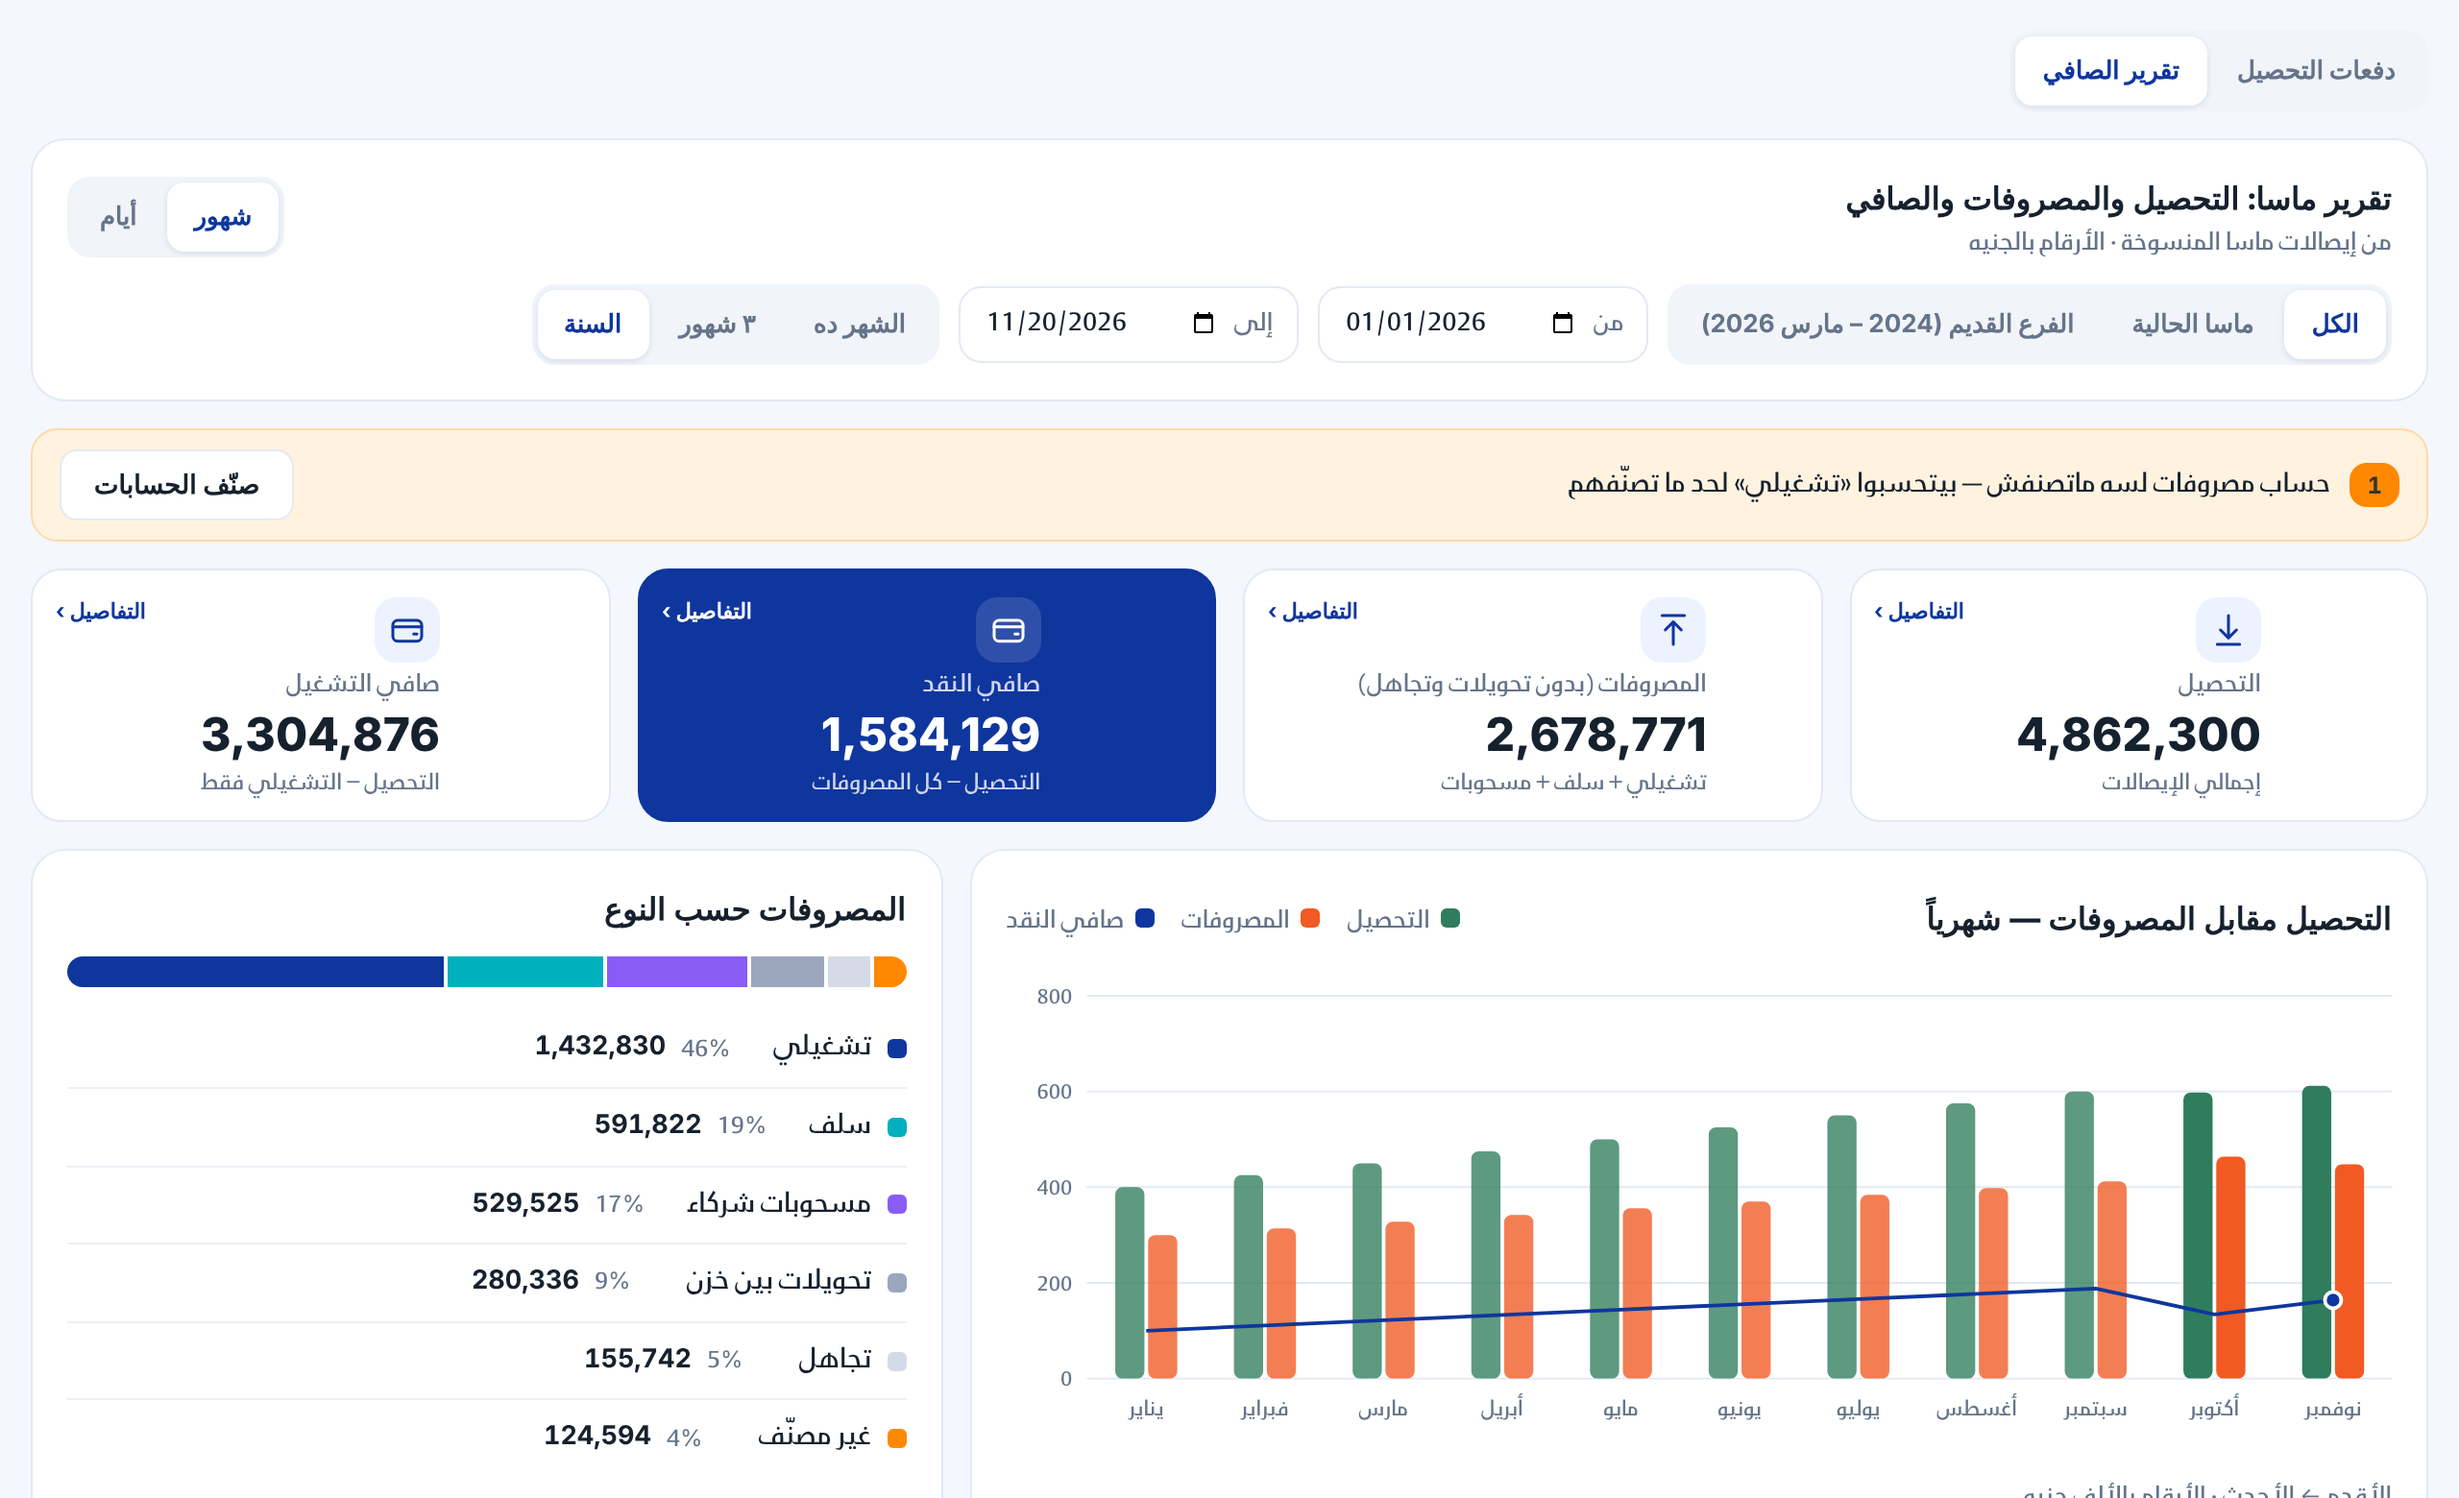
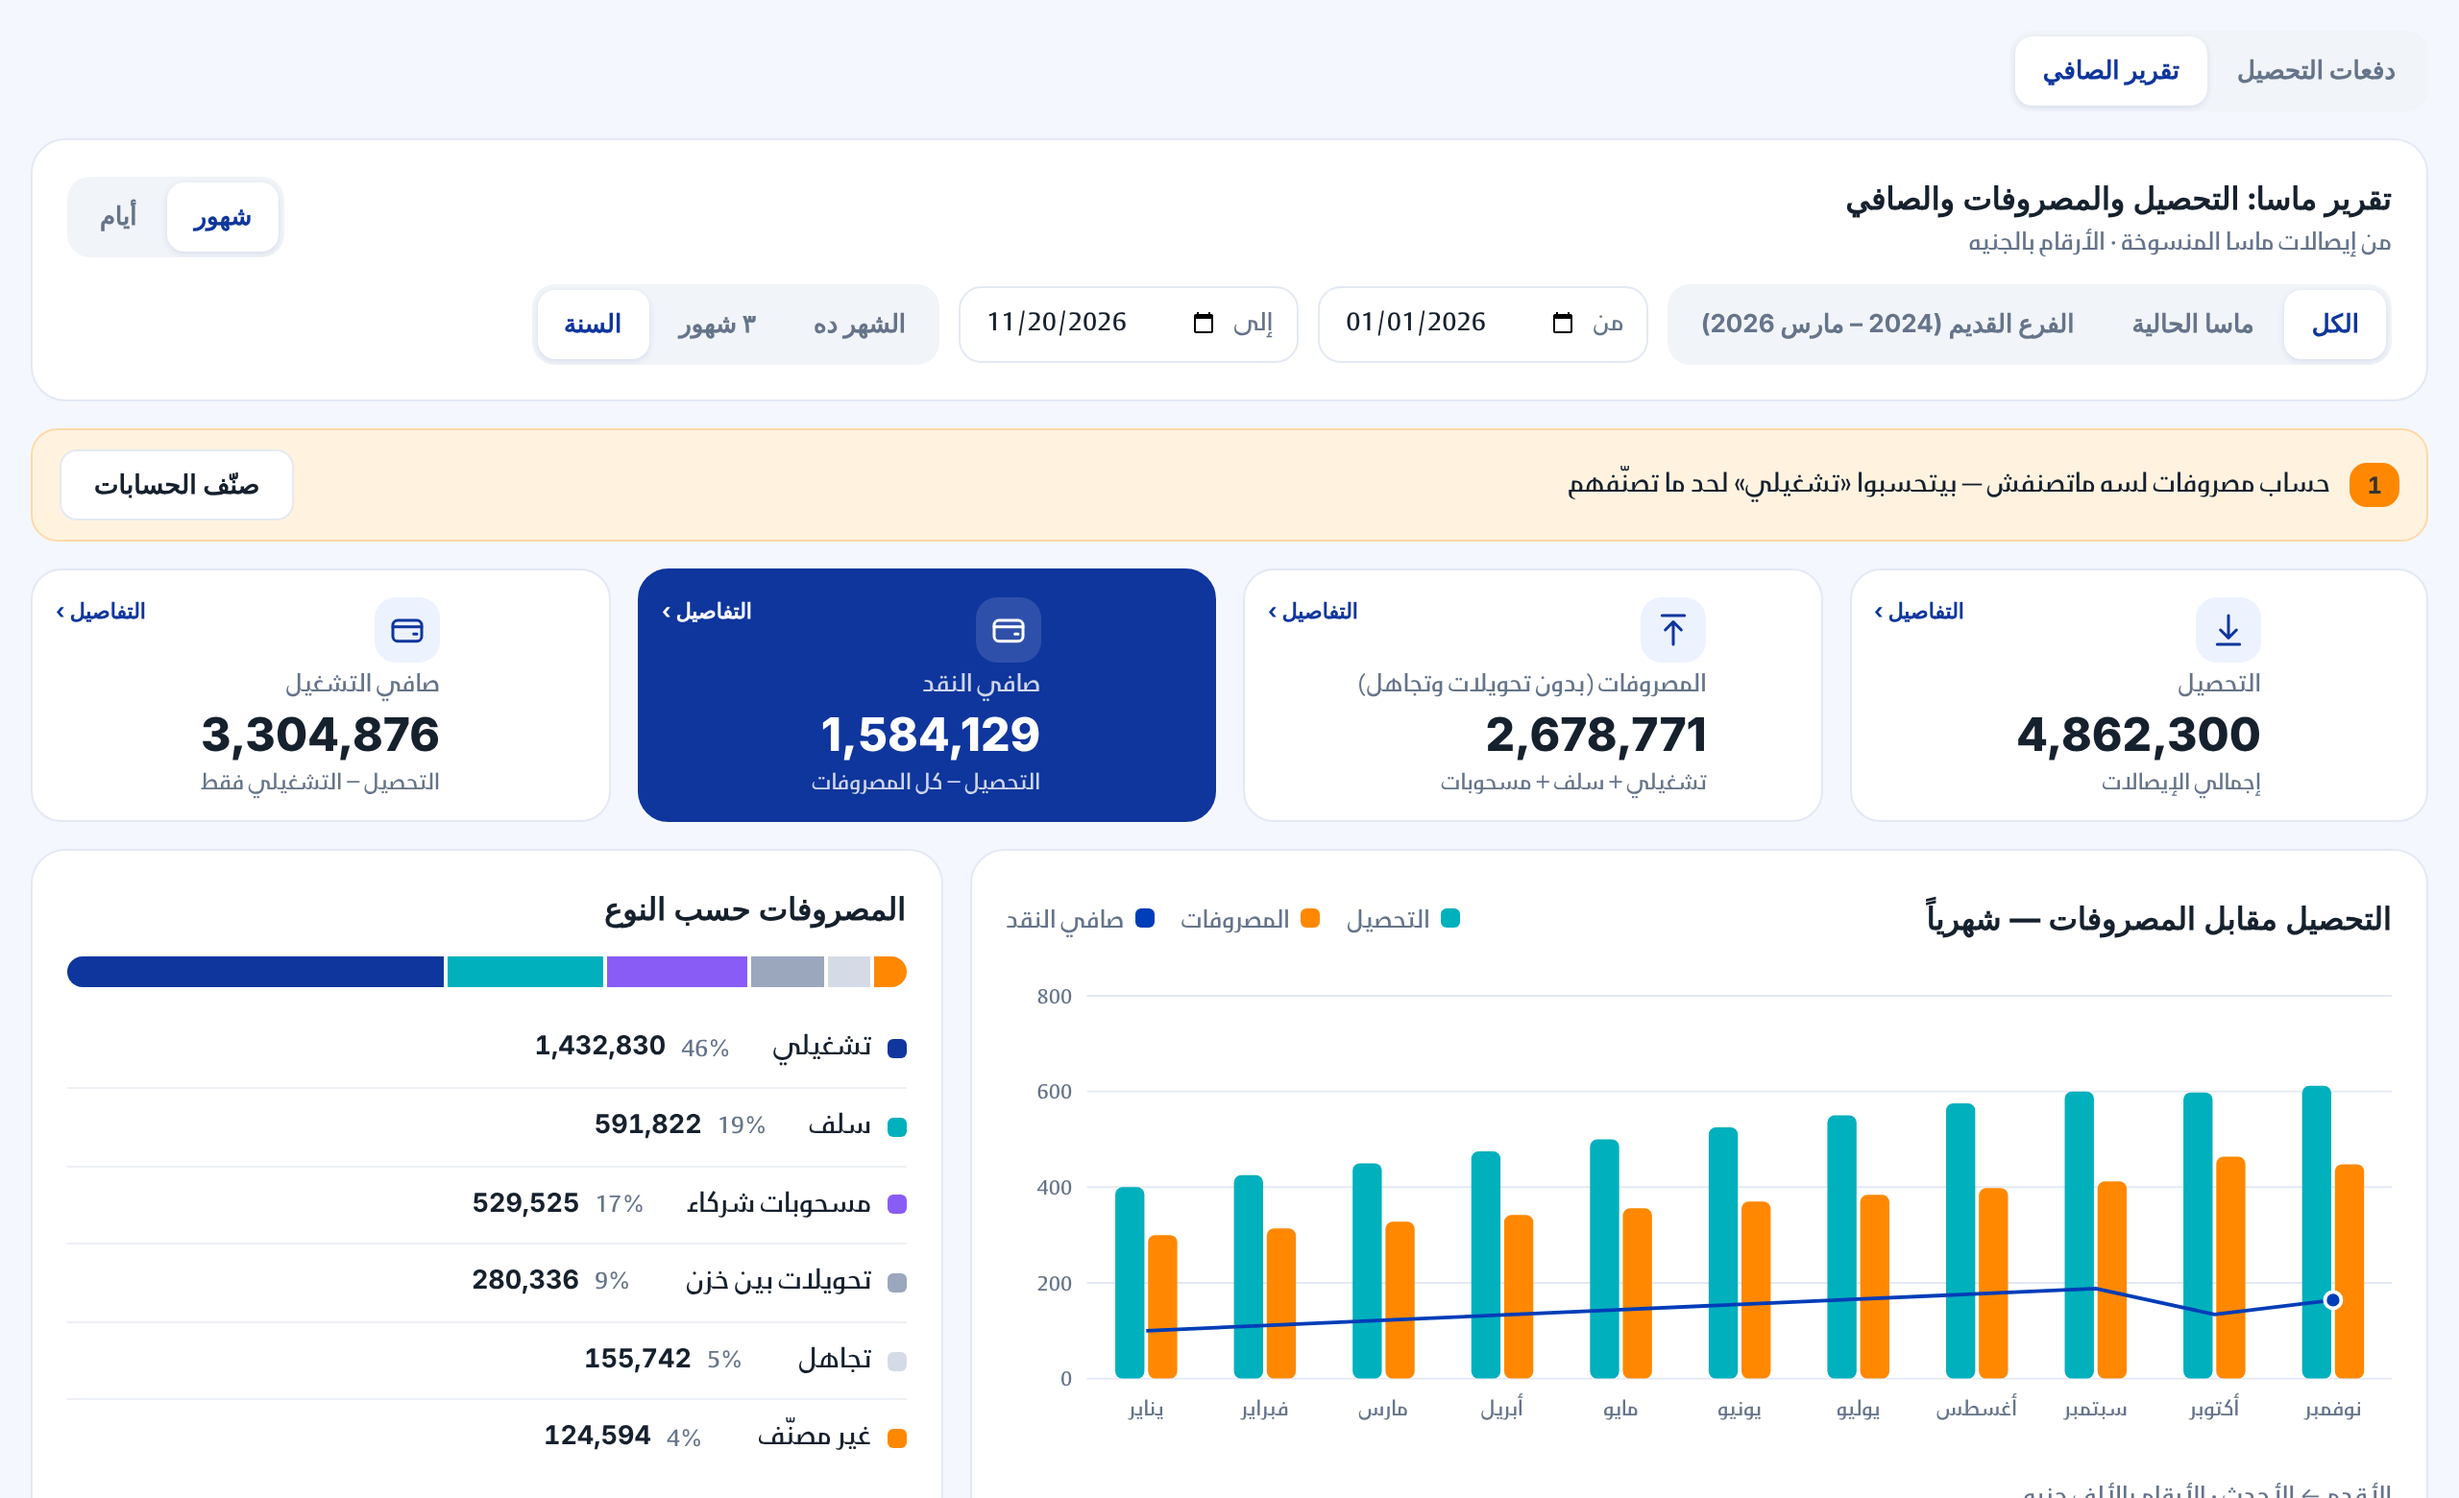
masa net chart: bars at full opacity so owner colours show exactly; refreshed screenshot
Claude-Session: https://claude.ai/code/session_01UqVZHaB84bosb26ToEYYkt

Changed region(s): [[0.4375, 0.7077, 0.9688, 0.9231]]

diff --git a/assets/js/finance-masa-net.js b/assets/js/finance-masa-net.js
@@ -26,7 +26,7 @@
     var raw=max/4,mag=Math.pow(10,Math.floor(Math.log10(raw))),nz=raw/mag,st=(nz<=1?1:nz<=2?2:nz<=2.5?2.5:nz<=5?5:10)*mag;max=st*4;
     function y(v){return T+(H-T-B)*(1-v/max);}
     var s='';[0,.25,.5,.75,1].forEach(function(f){var v=max*f;s+='<line x1="'+L+'" x2="'+W+'" y1="'+y(v)+'" y2="'+y(v)+'" stroke="#E3E9F4"/><text x="'+(L-8)+'" y="'+(y(v)+4)+'" font-size="11" fill="#65748a" text-anchor="end">'+Math.round(v/1000)+'</text>';});
-    var pts=[];rows.forEach(function(r,k){var x=L+k*gw+gw/2,out=(+r.operating||0)+(+r.advance||0)+(+r.partner_draw||0),last=k>=n-2,bw=Math.min(16,gw/2-4),op=last?1:.78;
+    var pts=[];rows.forEach(function(r,k){var x=L+k*gw+gw/2,out=(+r.operating||0)+(+r.advance||0)+(+r.partner_draw||0),last=k>=n-2,bw=Math.min(16,gw/2-4),op=1;
       var tip=periodLabel(r.period)+' — التحصيل '+money(r.income)+' · المصروفات '+money(out)+' · صافي النقد '+signed(r.net_cash);
       s+='<g tabindex="0" role="img" aria-label="'+esc(tip)+'"><title>'+esc(tip)+'</title><rect x="'+(x-bw-1)+'" y="'+y(+r.income||0)+'" width="'+bw+'" height="'+Math.max(0,H-B-y(+r.income||0))+'" rx="4" fill="#00B0BD" opacity="'+op+'"/><rect x="'+(x+1)+'" y="'+y(out)+'" width="'+bw+'" height="'+Math.max(0,H-B-y(out))+'" rx="4" fill="#FF8800" opacity="'+op+'"/></g>';
       var lab=r.period.length===7?MONTHS[+r.period.slice(5)-1]:r.period.slice(8);if(n<=16||k%Math.ceil(n/16)===0)s+='<text x="'+x+'" y="'+(H-10)+'" font-size="11" fill="#65748a" text-anchor="middle">'+esc(lab)+'</text>';

diff --git a/index.html b/index.html
@@ -202,7 +202,7 @@
 <script src="assets/js/finance-account-statements.js?v=account-statements-20261021-4"></script>
 <script src="assets/js/reception-shift-expenses.js?v=shift-exp-20261120-1"></script>
 <script src="assets/js/finance-masa-payments.js?v=masa-range-20261120-2"></script>
-<script src="assets/js/finance-masa-net.js?v=masa-net-20261120-3"></script>
+<script src="assets/js/finance-masa-net.js?v=masa-net-20261120-4"></script>
 <script src="assets/js/nav-state.js?v=nav-state-20261108-1"></script>
 <script src="assets/js/finance-shift-movements.js?v=shift-movements-20261116-1"></script>
 <script src="assets/js/finance-labels.js?v=acc-formats-20261118-2"></script>
